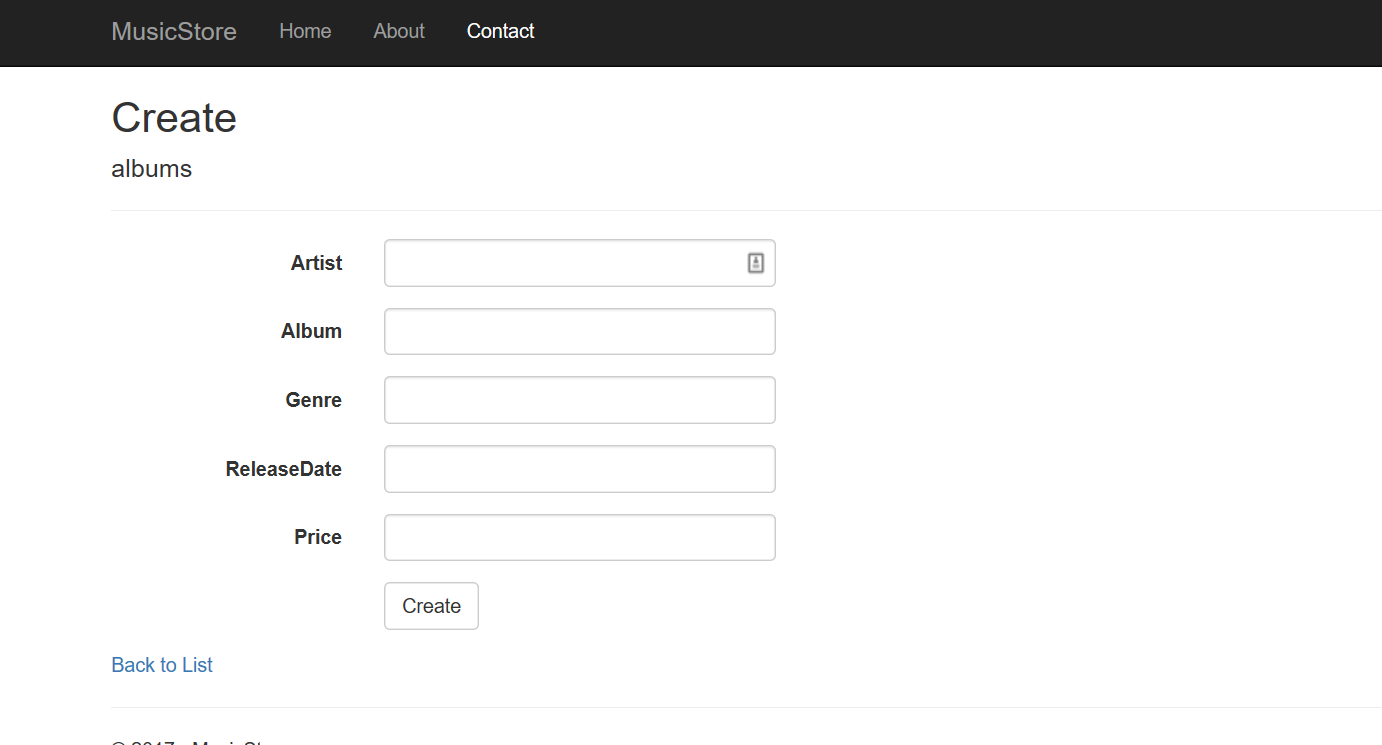
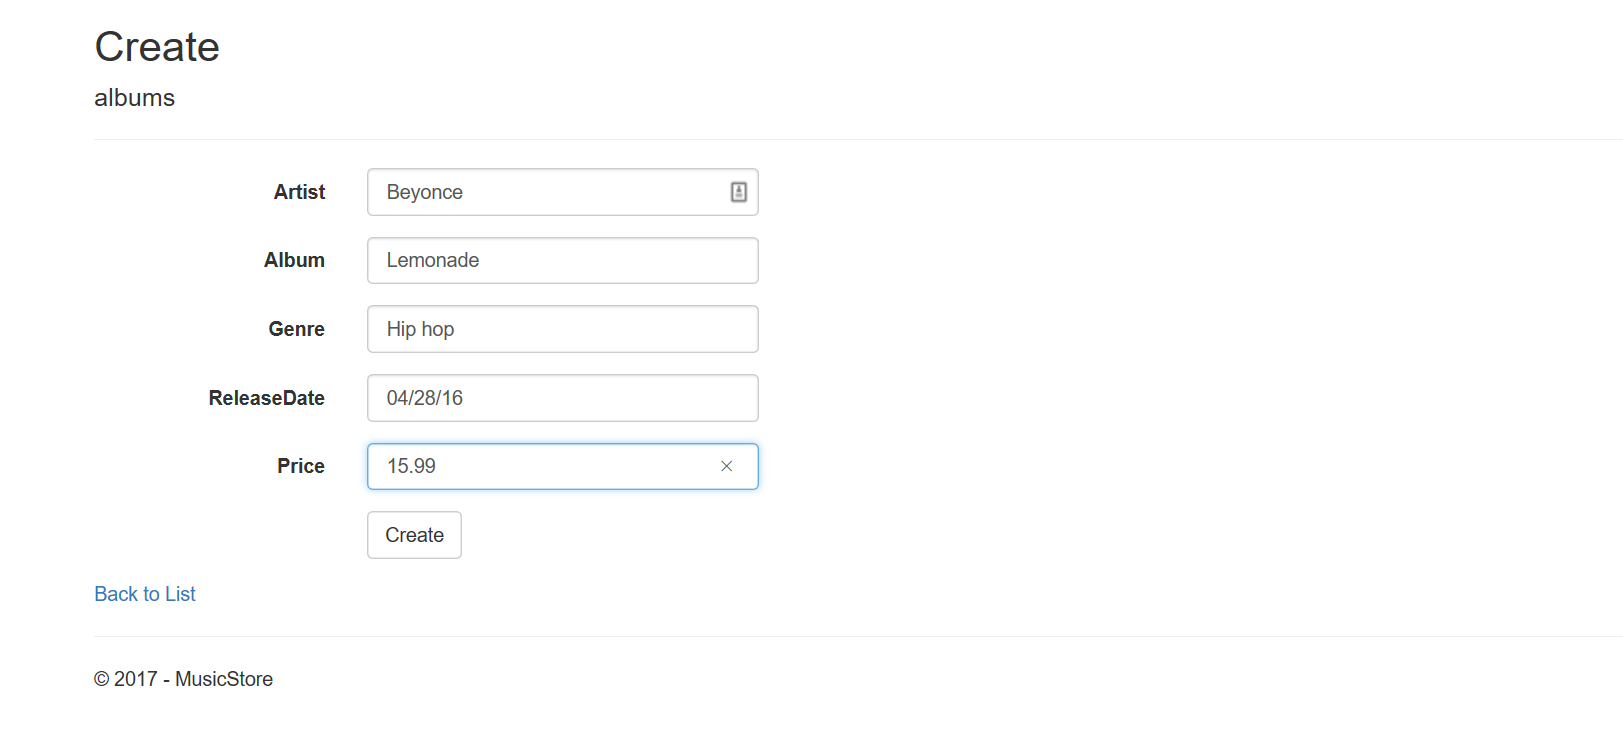
Create a form

diff --git a/Introduction/CreatingaForm.md b/Introduction/CreatingaForm.md
@@ -90,3 +90,5 @@ In Visual Studio, use the Package Manager Console to scaffold a new migration fo
  - Click Create New 
 
  ![image](https://cloud.githubusercontent.com/assets/2546640/23285222/d7667f26-f9fd-11e6-878d-84278f40ecca.PNG)
+
+- Add an entry for example Beyonce's Lemonade
